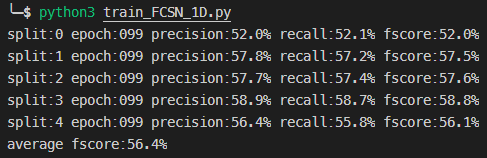
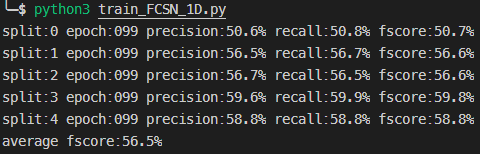
reset model in every split

diff --git a/train_FCSN_1D.py b/train_FCSN_1D.py
@@ -10,26 +10,27 @@ from data_loader import get_loader
 from FCSN import *
 import eval_tools
 
+# configure training record
+#writer = SummaryWriter()
 # load training and testing dataset
-train_loader_list,test_dataset_list,data_file = get_loader("datasets/fcsn_tvsum.h5", "1D", 5)
+train_loader_list,test_dataset_list,data_file = get_loader("datasets/fcsn_summe.h5", "1D", 5)
 # device use for training and testing
 device = torch.device("cuda:0" if torch.cuda.is_available() else "cpu")
 # number of epoch to train
 EPOCHS = 100
-# model declaration
-model = FCSN_1D()
-# optimizer declaration
-optimizer = optim.SGD(model.parameters(), lr=1e-3, momentum=0.9)
-# switch to train mode
-model.train()
-# put model in to device
-model.to(device)
-# configure training record
-#writer = SummaryWriter()
 # array for calc. eval fscore
 fscore_arr = np.zeros(len(train_loader_list))
 
+
 for i in range(len(train_loader_list)):
+    # model declaration
+    model = FCSN_1D()
+    # optimizer declaration
+    optimizer = optim.SGD(model.parameters(), lr=1e-3, momentum=0.9)
+    # switch to train mode
+    model.train()
+    # put model in to device
+    model.to(device)
     for epoch in range(EPOCHS):
         for batch_i, (feature,label,_) in enumerate(train_loader_list[i]):
             feature = feature.to(device) #[5,1024,320]
@@ -73,8 +74,8 @@ for i in range(len(train_loader_list)):
                 _, _, pred_summary = eval_tools.select_keyshots(video_info, pred_score)
                 true_summary_arr = video_info['user_summary'][()] # shape (n_users,N), summary from some users, each row is a binary vector
                 eval_res = [eval_tools.eval_metrics(pred_summary, true_summary) for true_summary in true_summary_arr] # shape [n_user,3],3 for[precision, recall, fscore]
-                eval_res = np.mean(eval_res, axis=0).tolist()  # for tvsum
-                #eval_res = np.max(eval_res, axis=0).tolist()    # for summe
+                #eval_res = np.mean(eval_res, axis=0).tolist()  # for tvsum
+                eval_res = np.max(eval_res, axis=0).tolist()    # for summe
                 eval_res_avg.append(eval_res) # [[precision1, recall1, fscore1], [precision2, recall2, fscore2]......]
                 
             eval_res_avg = np.mean(eval_res_avg, axis=0).tolist()
@@ -83,16 +84,22 @@ for i in range(len(train_loader_list)):
             fscore = eval_res_avg[2]
             #print("split:{} epoch:{:0>3d} precision:{:.1%} recall:{:.1%} fscore:{:.1%}".format(i, epoch, precision, recall, fscore))
 
-            # store the last fscore for eval
+            model.train()
+
+            # store the last fscore for eval, and remove model from GPU
             if((epoch+1)==EPOCHS):
+                # store fscore
                 fscore_arr[i] = fscore
                 print("split:{} epoch:{:0>3d} precision:{:.1%} recall:{:.1%} fscore:{:.1%}".format(i, epoch, precision, recall, fscore))
+                # release model from GPU
+                model = model.cpu()
+                torch.cuda.empty_cache()
 
             #writer.add_scalar("eval_1D_X_epoch/precision", precision, epoch, time.time())   # tag, Y, X -> 當Y只有一個時
             #writer.add_scalar("eval_1D_X_epoch/recall", recall, epoch, time.time())
             #writer.add_scalar("eval_1D_X_epoch/fscore", fscore, epoch, time.time())
 
-            model.train()
+            
 
 # print eval fscore
 print("average fscore:{:.1%}".format(fscore_arr.mean()))

diff --git a/train_FCSN_2D.py b/train_FCSN_2D.py
@@ -10,26 +10,27 @@ from data_loader import get_loader
 from FCSN import *
 import eval_tools
 
+# configure training record
+#writer = SummaryWriter()
 # load training and testing dataset
-train_loader_list,test_dataset_list,data_file = get_loader("datasets/fcsn_tvsum.h5", "2D", 5)
+train_loader_list,test_dataset_list,data_file = get_loader("datasets/fcsn_summe.h5", "2D", 5)
 # device use for training and testing
 device = torch.device("cuda:0" if torch.cuda.is_available() else "cpu")
 # number of epoch to train
 EPOCHS = 100
-# model declaration
-model = FCSN_2D()
-# optimizer declaration
-optimizer = optim.SGD(model.parameters(), lr=1e-3, momentum=0.9)
-# switch to train mode
-model.train()
-# put model in to device
-model.to(device)
-# configure training record
-#writer = SummaryWriter()
 # array for calc. eval fscore
 fscore_arr = np.zeros(len(train_loader_list))
 
+
 for i in range(len(train_loader_list)):
+    # model declaration
+    model = FCSN_2D()
+    # optimizer declaration
+    optimizer = optim.SGD(model.parameters(), lr=1e-3, momentum=0.9)
+    # switch to train mode
+    model.train()
+    # put model in to device
+    model.to(device)
     for epoch in range(EPOCHS):
         for batch_i, (feature,label,_) in enumerate(train_loader_list[i]):
             feature = feature.to(device) #[5,1024,1,320]
@@ -73,8 +74,8 @@ for i in range(len(train_loader_list)):
                 _, _, pred_summary = eval_tools.select_keyshots(video_info, pred_score)
                 true_summary_arr = video_info['user_summary'][()] # shape (20,N), summary from 20 users, each row is a binary vector
                 eval_res = [eval_tools.eval_metrics(pred_summary, true_summary) for true_summary in true_summary_arr] # shape [20,3] 20 for users,3 for[precision, recall, fscore]
-                eval_res = np.mean(eval_res, axis=0).tolist()  # for tvsum
-                #eval_res = np.max(eval_res, axis=0).tolist()    # for summe
+                #eval_res = np.mean(eval_res, axis=0).tolist()  # for tvsum
+                eval_res = np.max(eval_res, axis=0).tolist()    # for summe
                 eval_res_avg.append(eval_res) # [[precision1, recall1, fscore1], [precision2, recall2, fscore2]......]
 
             eval_res_avg = np.mean(eval_res_avg, axis=0).tolist()
@@ -83,16 +84,21 @@ for i in range(len(train_loader_list)):
             fscore = eval_res_avg[2]
             #print("split:{} epoch:{:0>3d} precision:{:.1%} recall:{:.1%} fscore:{:.1%}".format(i, epoch, precision, recall, fscore))
 
-            # store the last fscore for eval
+            model.train()
+
+            # store the last fscore for eval, and remove model from GPU
             if((epoch+1)==EPOCHS):
                 fscore_arr[i] = fscore
                 print("split:{} epoch:{:0>3d} precision:{:.1%} recall:{:.1%} fscore:{:.1%}".format(i, epoch, precision, recall, fscore))
+                # release model from GPU
+                model = model.cpu()
+                torch.cuda.empty_cache()
 
             #writer.add_scalar("eval_2D_X_epoch/precision", precision, epoch, time.time())   # tag, Y, X -> 當Y只有一個時
             #writer.add_scalar("eval_2D_X_epoch/recall", recall, epoch, time.time())
             #writer.add_scalar("eval_2D_X_epoch/fscore", fscore, epoch, time.time())
 
-            model.train()
+            
 
 
 # print eval fscore
